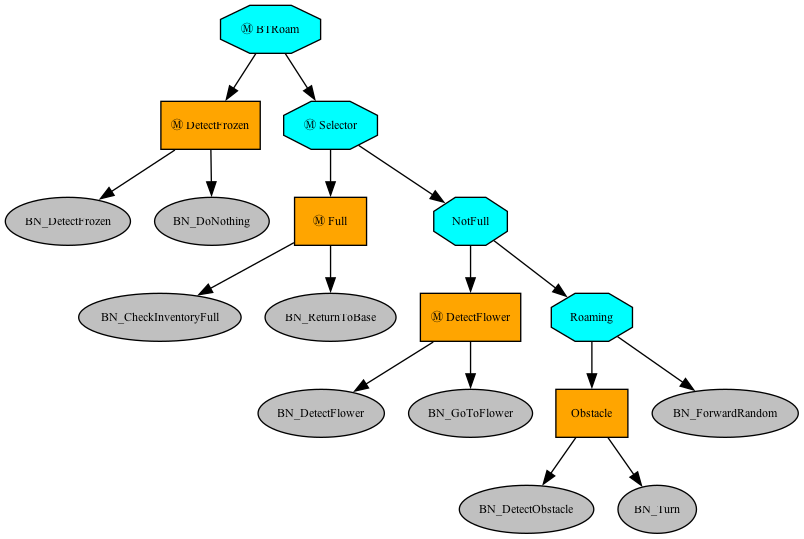
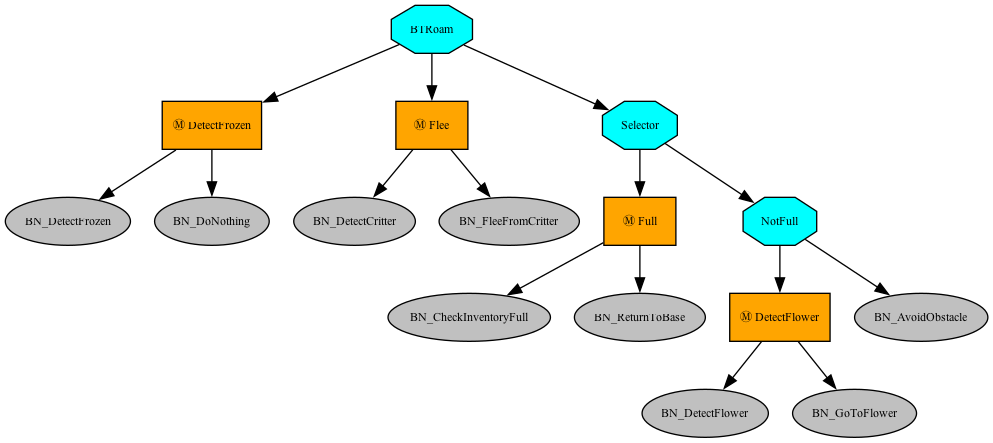
Changed BTRoam version 3 to use BN_AvoidObstacle

diff --git a/AAPE/BTRoam.py b/AAPE/BTRoam.py
@@ -322,56 +322,48 @@ class BTRoam:
         # self.behaviour_tree = pt.trees.BehaviourTree(self.root)
 
         # VERSION 2 (Alone with avoid)
-        detection = pt.composites.Sequence(name="DetectFlower", memory=True)
-        detection.add_children([BN_DetectFlower(aagent), BN_GoToFlower(aagent)])
-
-        full = pt.composites.Sequence("Full", memory=True)
-        full.add_children([BN_CheckInventoryFull(aagent), BN_ReturnToBase(aagent)])
-
-        not_full = pt.composites.Selector("NotFull", memory=False)
-        not_full.add_children([detection, BN_AvoidObstacle(aagent)])
-
-        self.root = pt.composites.Selector(name="BTRoam", memory=False)
-        self.root.add_children([full, not_full])
-
-        self.behaviour_tree = pt.trees.BehaviourTree(self.root)
-        
-
-        # VERSION 3 (Collect and run)
-        # frozen = pt.composites.Sequence(name='DetectFrozen', memory=True)
-        # frozen.add_children([BN_DetectFrozen(aagent), BN_DoNothing(aagent)])
-
         # detection = pt.composites.Sequence(name="DetectFlower", memory=True)
         # detection.add_children([BN_DetectFlower(aagent), BN_GoToFlower(aagent)])
 
-        # # If there is an obstacle: Turn 
-        # obstacle = pt.composites.Sequence("Obstacle", memory=True)
-        # obstacle.add_children([BN_DetectObstacle(aagent), BN_Turn(aagent)])
-
-        # # If there is not an obstacle: Move Forward
-        # roaming = pt.composites.Selector("Roaming", memory=True)
-        # roaming.add_children([obstacle, BN_ForwardRandom(aagent)])
-
-        # # Inventory Full: Go back to base
         # full = pt.composites.Sequence("Full", memory=True)
         # full.add_children([BN_CheckInventoryFull(aagent), BN_ReturnToBase(aagent)])
 
-        # # Inventory not full: Detect Flower or Roam
         # not_full = pt.composites.Selector("NotFull", memory=False)
-        # not_full.add_children([detection, roaming])
-
-        # notFrozen = pt.composites.Selector(name="Selector", memory=False)
-        # notFrozen.add_children([full, not_full])
-
-        # flee = pt.composites.Sequence("Flee", memory=True)
-        # flee.add_children([BN_DetectCritter(aagent), BN_FleeFromCritter(aagent)])
+        # not_full.add_children([detection, BN_AvoidObstacle(aagent)])
 
         # self.root = pt.composites.Selector(name="BTRoam", memory=False)
-        # self.root.add_children([frozen, flee, notFrozen])
+        # self.root.add_children([full, not_full])
 
         # self.behaviour_tree = pt.trees.BehaviourTree(self.root)
+        
+
+        # VERSION 3 (Collect and run)
+        frozen = pt.composites.Sequence(name='DetectFrozen', memory=True)
+        frozen.add_children([BN_DetectFrozen(aagent), BN_DoNothing(aagent)])
+
+        detection = pt.composites.Sequence(name="DetectFlower", memory=True)
+        detection.add_children([BN_DetectFlower(aagent), BN_GoToFlower(aagent)])
+
+        # Inventory Full: Go back to base
+        full = pt.composites.Sequence("Full", memory=True)
+        full.add_children([BN_CheckInventoryFull(aagent), BN_ReturnToBase(aagent)])
+
+        # Inventory not full: Detect Flower or Roam
+        not_full = pt.composites.Selector("NotFull", memory=False)
+        not_full.add_children([detection, BN_AvoidObstacle(aagent)])
+
+        notFrozen = pt.composites.Selector(name="Selector", memory=False)
+        notFrozen.add_children([full, not_full])
+
+        flee = pt.composites.Sequence("Flee", memory=True)
+        flee.add_children([BN_DetectCritter(aagent), BN_FleeFromCritter(aagent)])
+
+        self.root = pt.composites.Selector(name="BTRoam", memory=False)
+        self.root.add_children([frozen, flee, notFrozen])
+
+        self.behaviour_tree = pt.trees.BehaviourTree(self.root)
     
-        # render_dot_tree(self.root)
+        render_dot_tree(self.root)
 
     def stop_behaviour_tree(self):
         print("Stopping the BehaviorTree")
